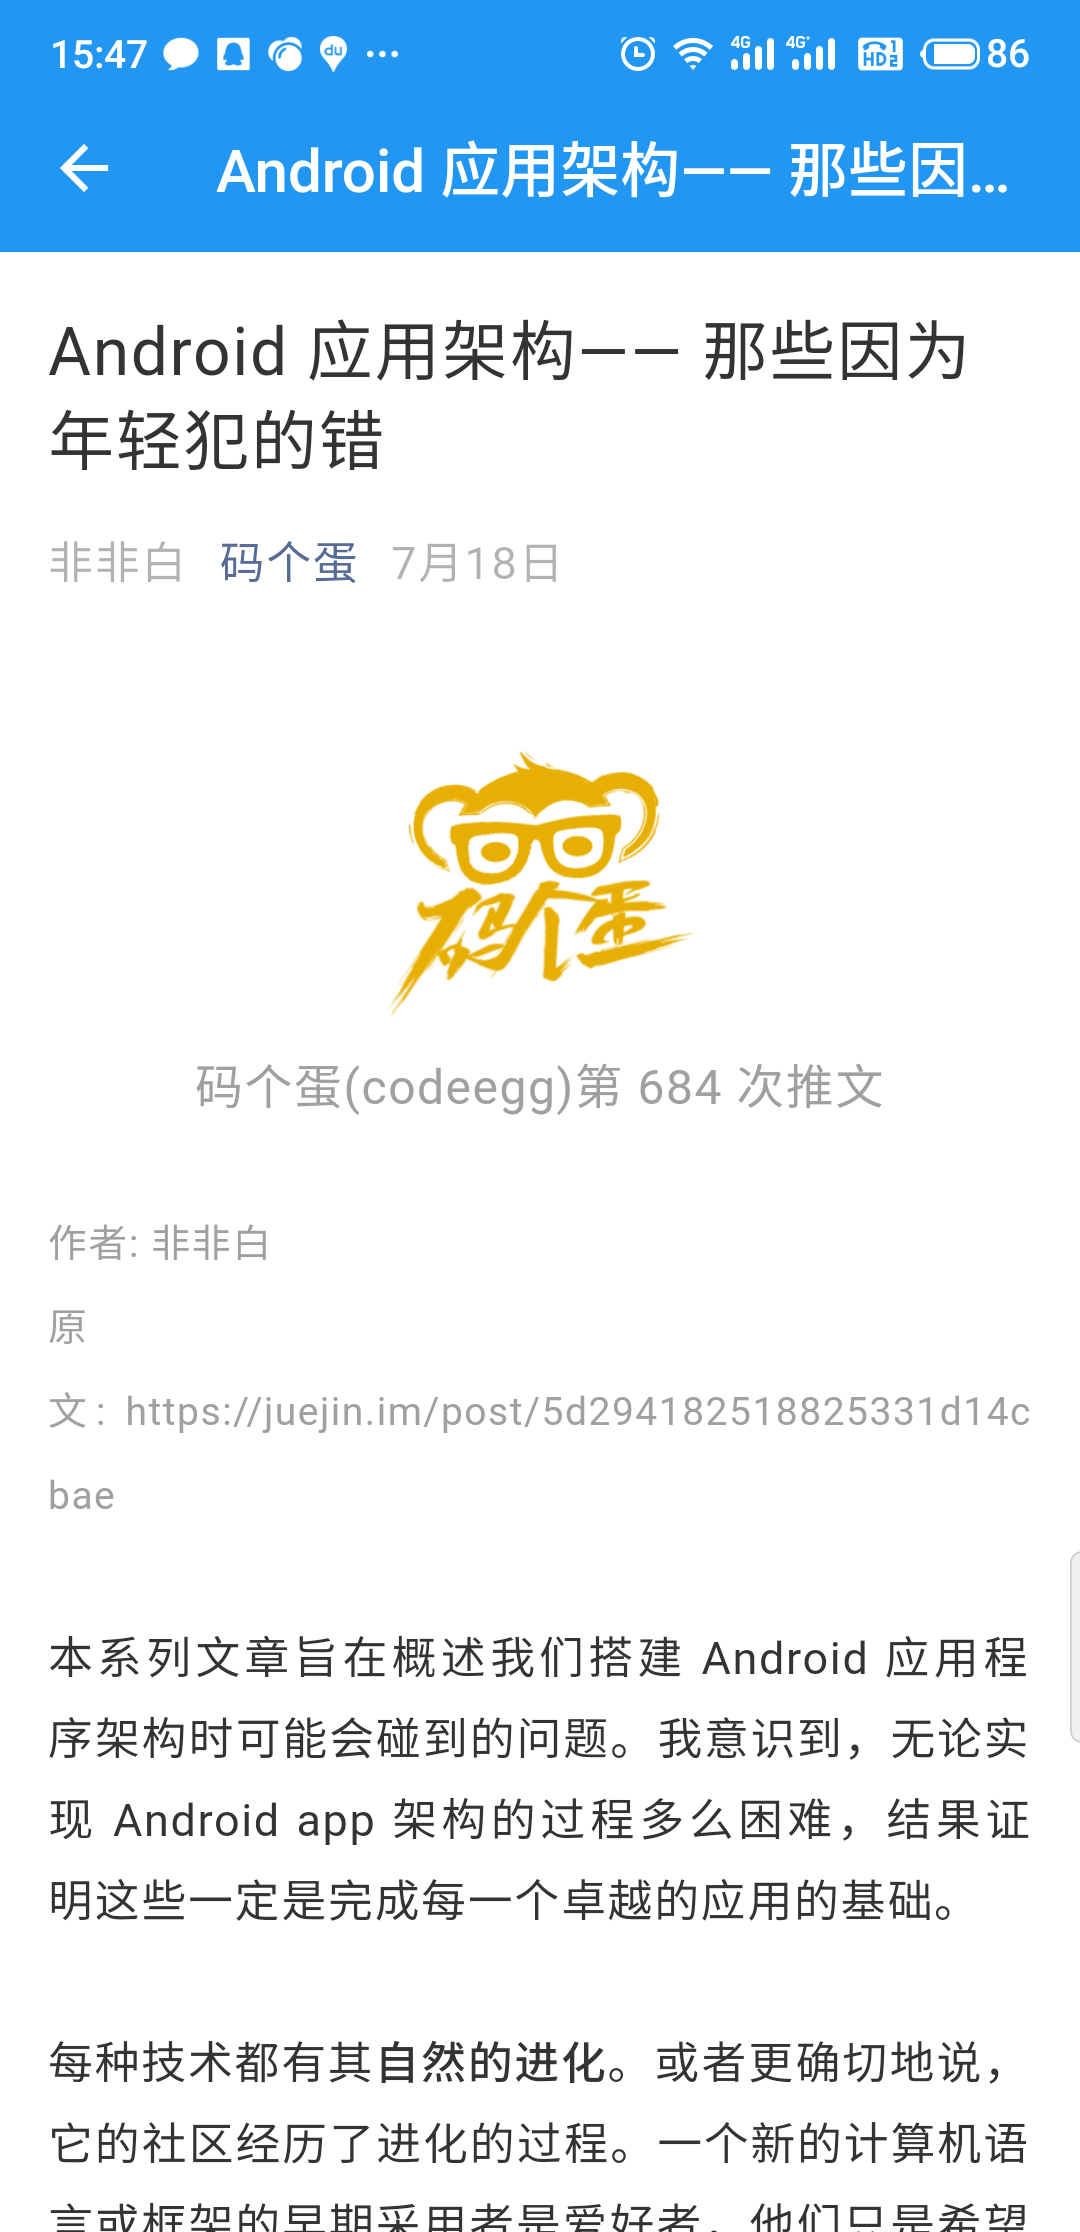
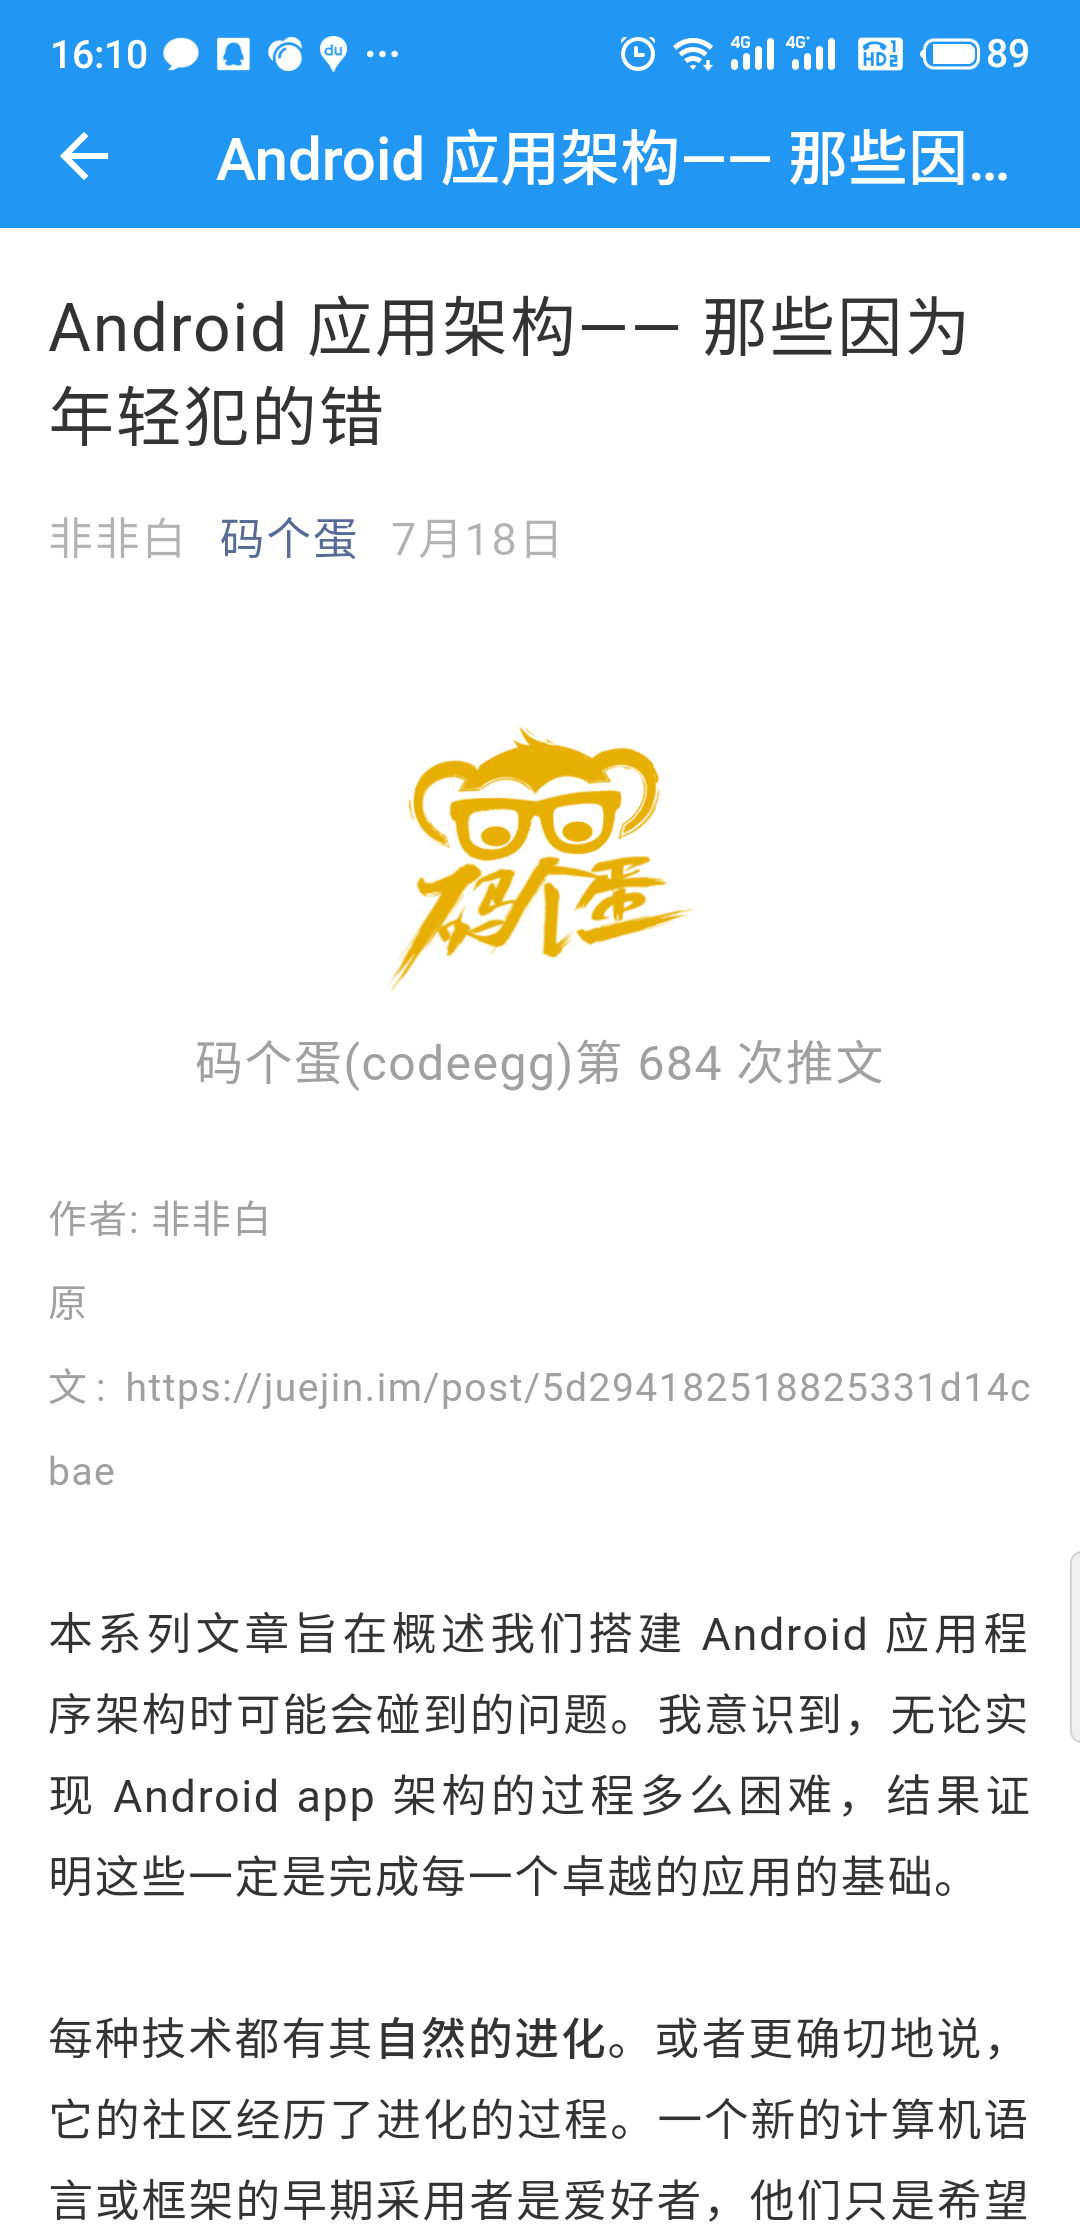
modified readme

diff --git a/lib/widgets/details_page.dart b/lib/widgets/details_page.dart
@@ -26,8 +26,11 @@ class DetailsPageSate extends State<DetailsPage> {
       withZoom: false,
       withJavascript: true,
       withLocalStorage: true,
-      appBar: new AppBar(
-        title: new Text(_title),
+      appBar: new PreferredSize(
+          child: new AppBar(
+            title: new Text(_title),
+          ),
+          preferredSize: Size.fromHeight(48)
       ),
     );
   }

diff --git a/README.md b/README.md
@@ -1,6 +1,25 @@
+各个版本的Gank客户端：
+
+ - [Android 版本](http://www.heqiangfly.com/2016/11/08/android-app-ganktoutiao/)
+ - [快应用版本](http://www.heqiangfly.com/2018/10/01/quick-app-demo-ganktoutiao/)
+ - [Flutter 版本](http://www.heqiangfly.com/2019/08/06/flutter-gank-app/)
+
+
 # gank_flutter
+
 使用 Flutter 开发的Gank App
+数据来源：http://gank.io/api
 
 # 应用展示
 
-<img src="/des_img/main.png" width="360" height="640"/> <img src="/des_img/detail.png" width="360" height="640"/>
+<img src="/des_img/main.png" width="360" height="744"/> <img src="/des_img/detail.png" width="360" height="744"/>
+
+# 用到的第三方库
+
+| 名称 | 功能 |
+| :-------------: |:-------------:|
+| dio | 网络请求框架 |
+| json_annotation | Json 模板 |
+| json_serializable | Json 模板 |
+| flutter_webview_plugin | Web 组件 |
+| flutter_spinkit | Loading 组件 |
